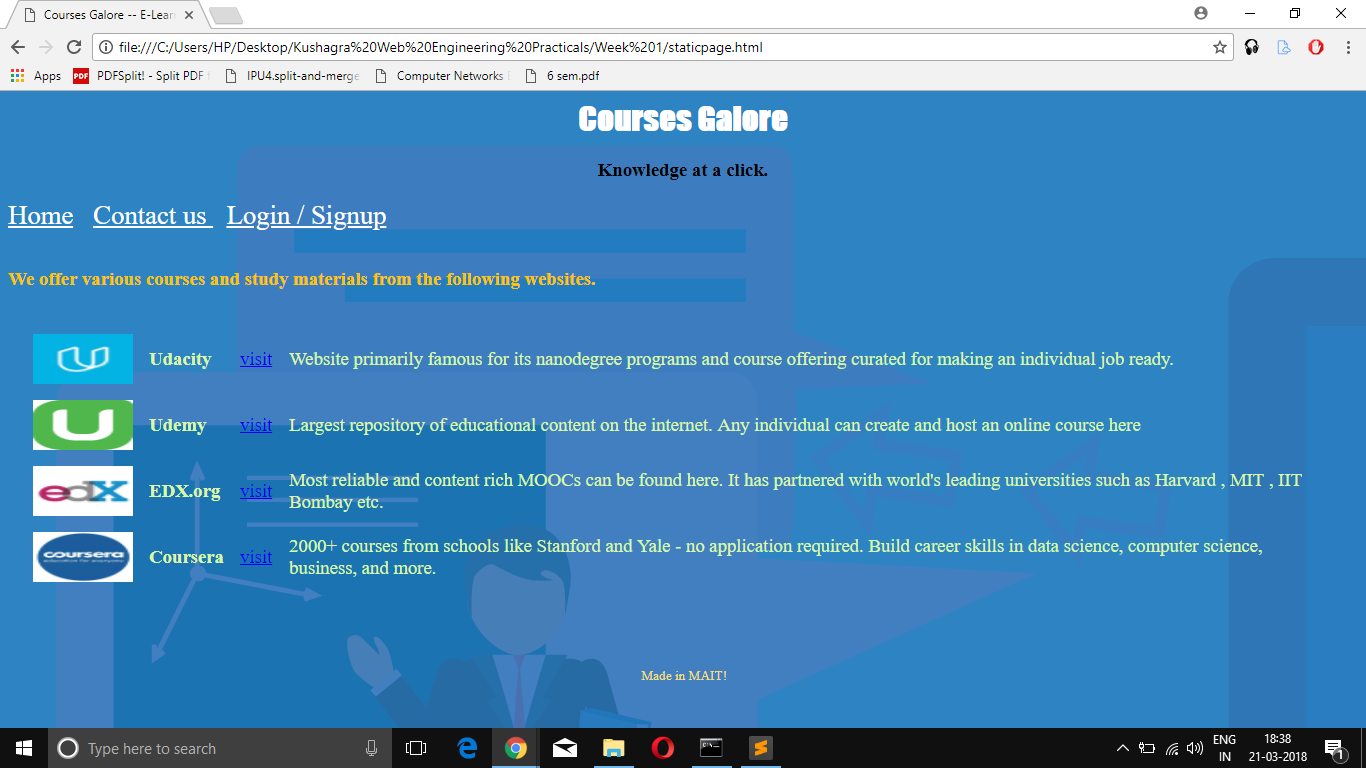
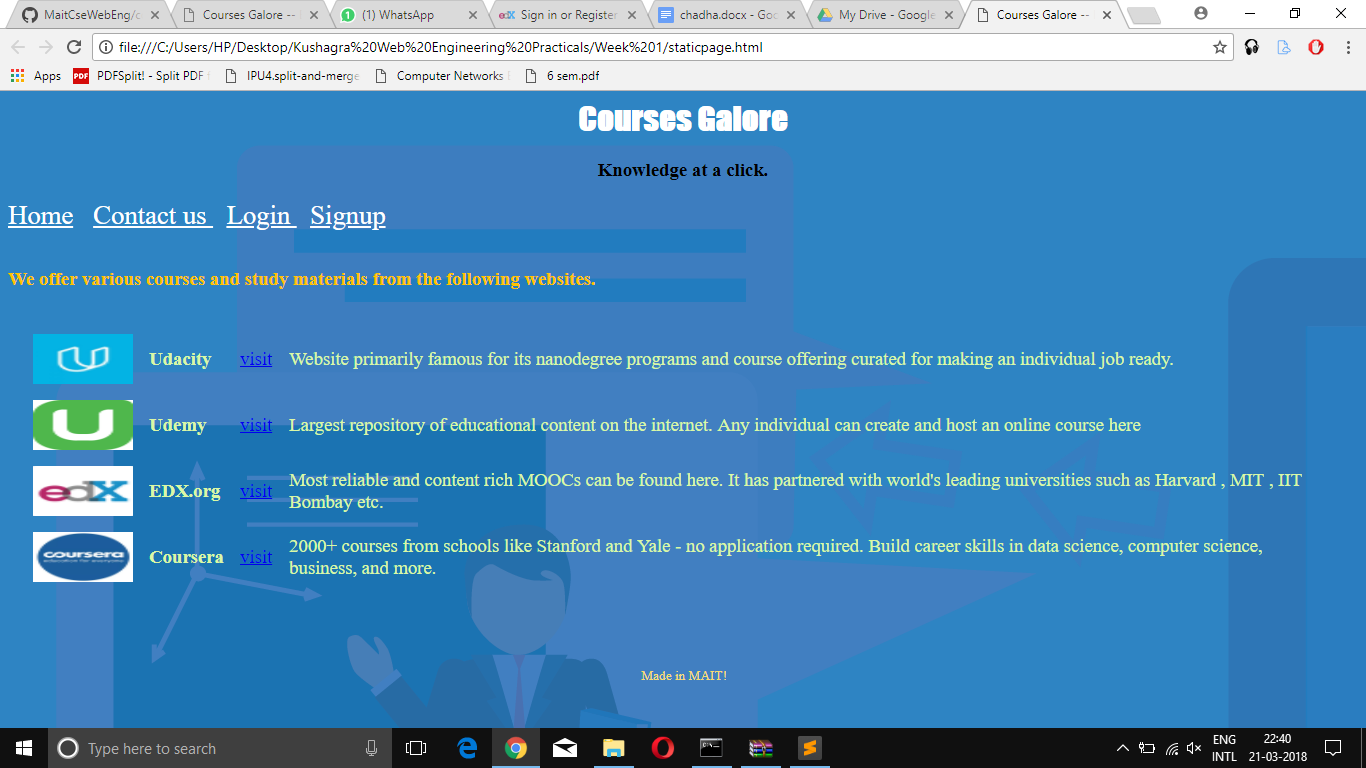
week 1 update

diff --git a/Week 3/login.html b/Week 3/login.html
@@ -1,0 +1,39 @@
+<html>
+<head>
+	<title>
+		Courses Galore -- E-Learning Portal
+	</title>
+	<link rel="stylesheet" href="cssChadha.css">
+</head>
+<body background="https://www.secureaplus.com/wp-content/uploads/2016/04/SecureAPlus-For-Education-Call-To-Action-Background.png">
+	<header>
+		<h1  style="text-align: center; color: white; font-family: impact, charcoal,sans-serif">Courses Galore</h1>
+		<h3 style="text-align: center; color: black;font-weight: bolder">Knowledge at a click.</h3>	
+	</header>
+	<div id="hey">
+	 ADMIN LOGIN
+</div>
+<div id="login">
+
+<form name="myForm" method="post" action="login.jsp">
+<table>
+    <tr>
+        <td>Username : </td>
+        <td><input type="text" name="username"></td>
+    </tr>
+    <tr><td>Password :</td>
+        <td><input type="password"  name="password"></td></tr>
+    <tr>
+        <td colspan="2"><button type="submit" class="button" name="action" onClick="return validate();" value="Login" >LOGIN</button>
+    </td>
+    </tr>
+</table>
+    
+    </form>
+       
+    </div>
+	<footer style="position: absolute;  bottom: 0;  width: 99%;  height: 60px; color: #F7DC6F; font-size: 10pt; text-align: center;">
+		Made in MAIT!
+	</footer>
+</body>
+</html>

diff --git a/Week 1/staticpage.html b/Week 1/staticpage.html
@@ -15,7 +15,9 @@
 			<span>&nbsp</span>
 			<a href="#" style="color: white">Contact us </a>
 			<span>&nbsp</span>
-			<a href="#" style="color: white;">Login / Signup</a>
+			<a href="#" style="color: white;">Login </a>
+			<span>&nbsp</span>
+			<a href="#" style="color: white;">Signup </a>
 		</font>
 	</nav>
 	<br>
